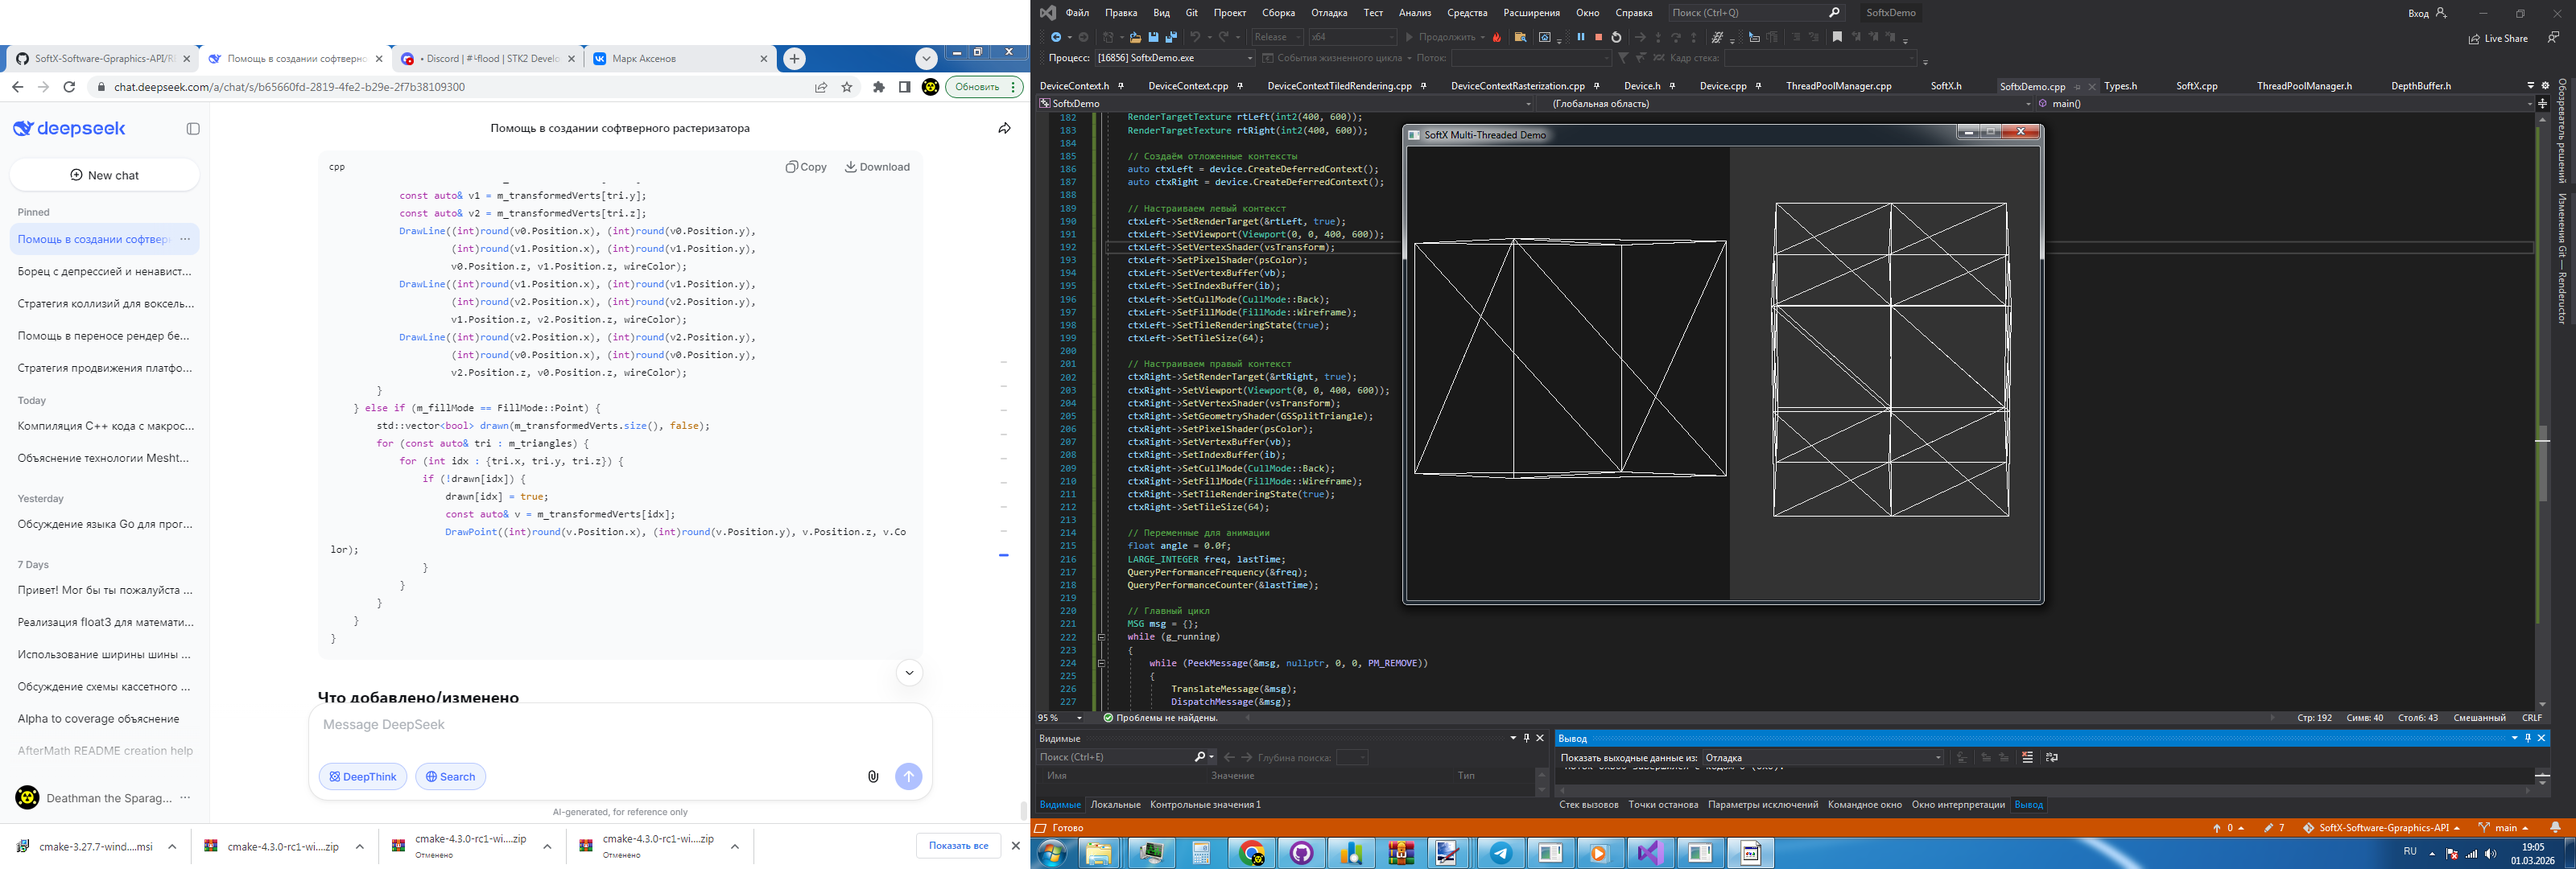
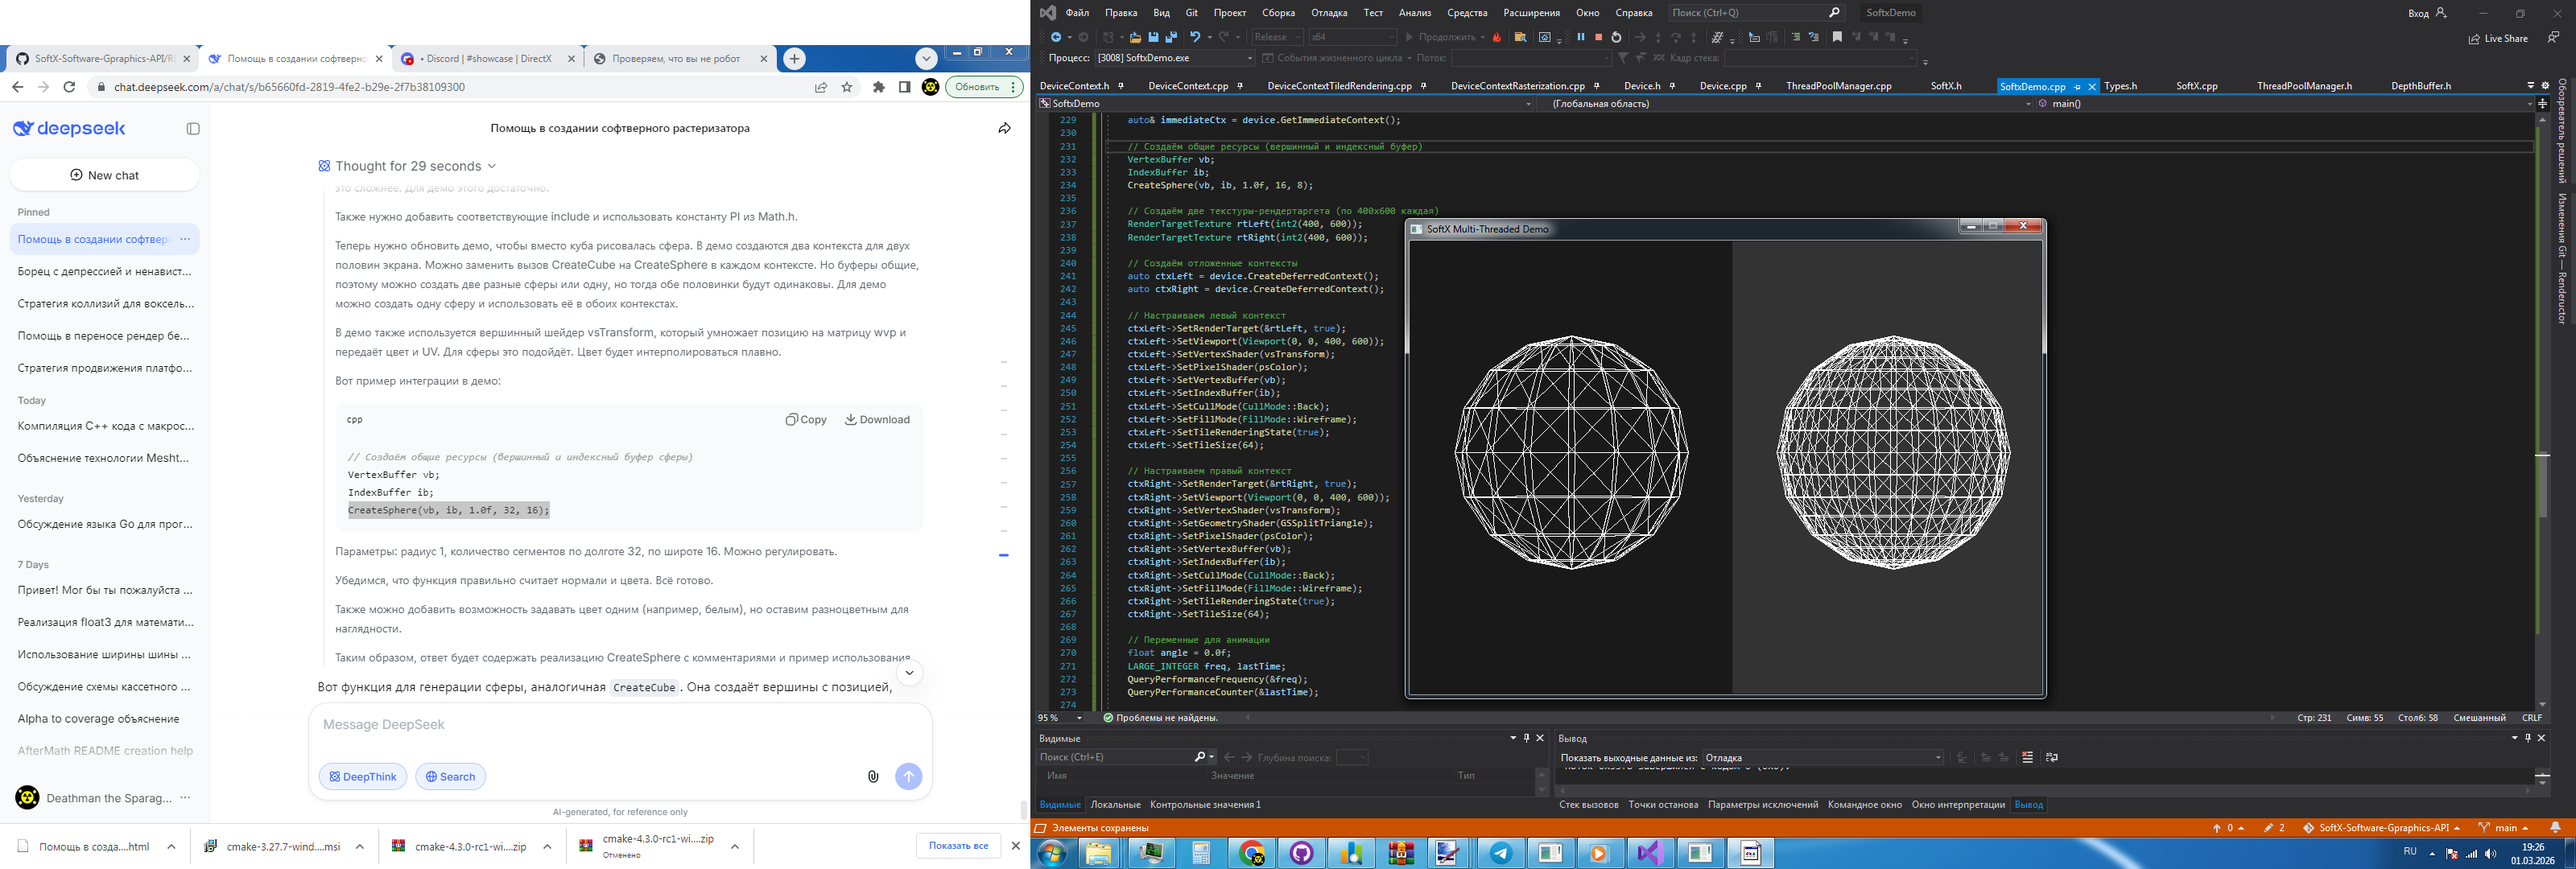
Geometry shaders demo update

diff --git a/Source/SoftxDemo/enc_temp_folder/2abe862123fc2f6018a0674d1518864b/SoftxDemo.cpp b/Source/SoftxDemo/enc_temp_folder/2abe862123fc2f6018a0674d1518864b/SoftxDemo.cpp
@@ -228,7 +228,7 @@ int main()
 	Device device(pp);
 	auto& immediateCtx = device.GetImmediateContext();
 
-	// Создаём общие ресурсы (вершинный и индексный буфер)
+	// Создаём общие ресурсы (вершинный и индексный буфер куба)
 	VertexBuffer vb;
 	IndexBuffer ib;
 	CreateSphere(vb, ib, 1.0f, 16, 8);
